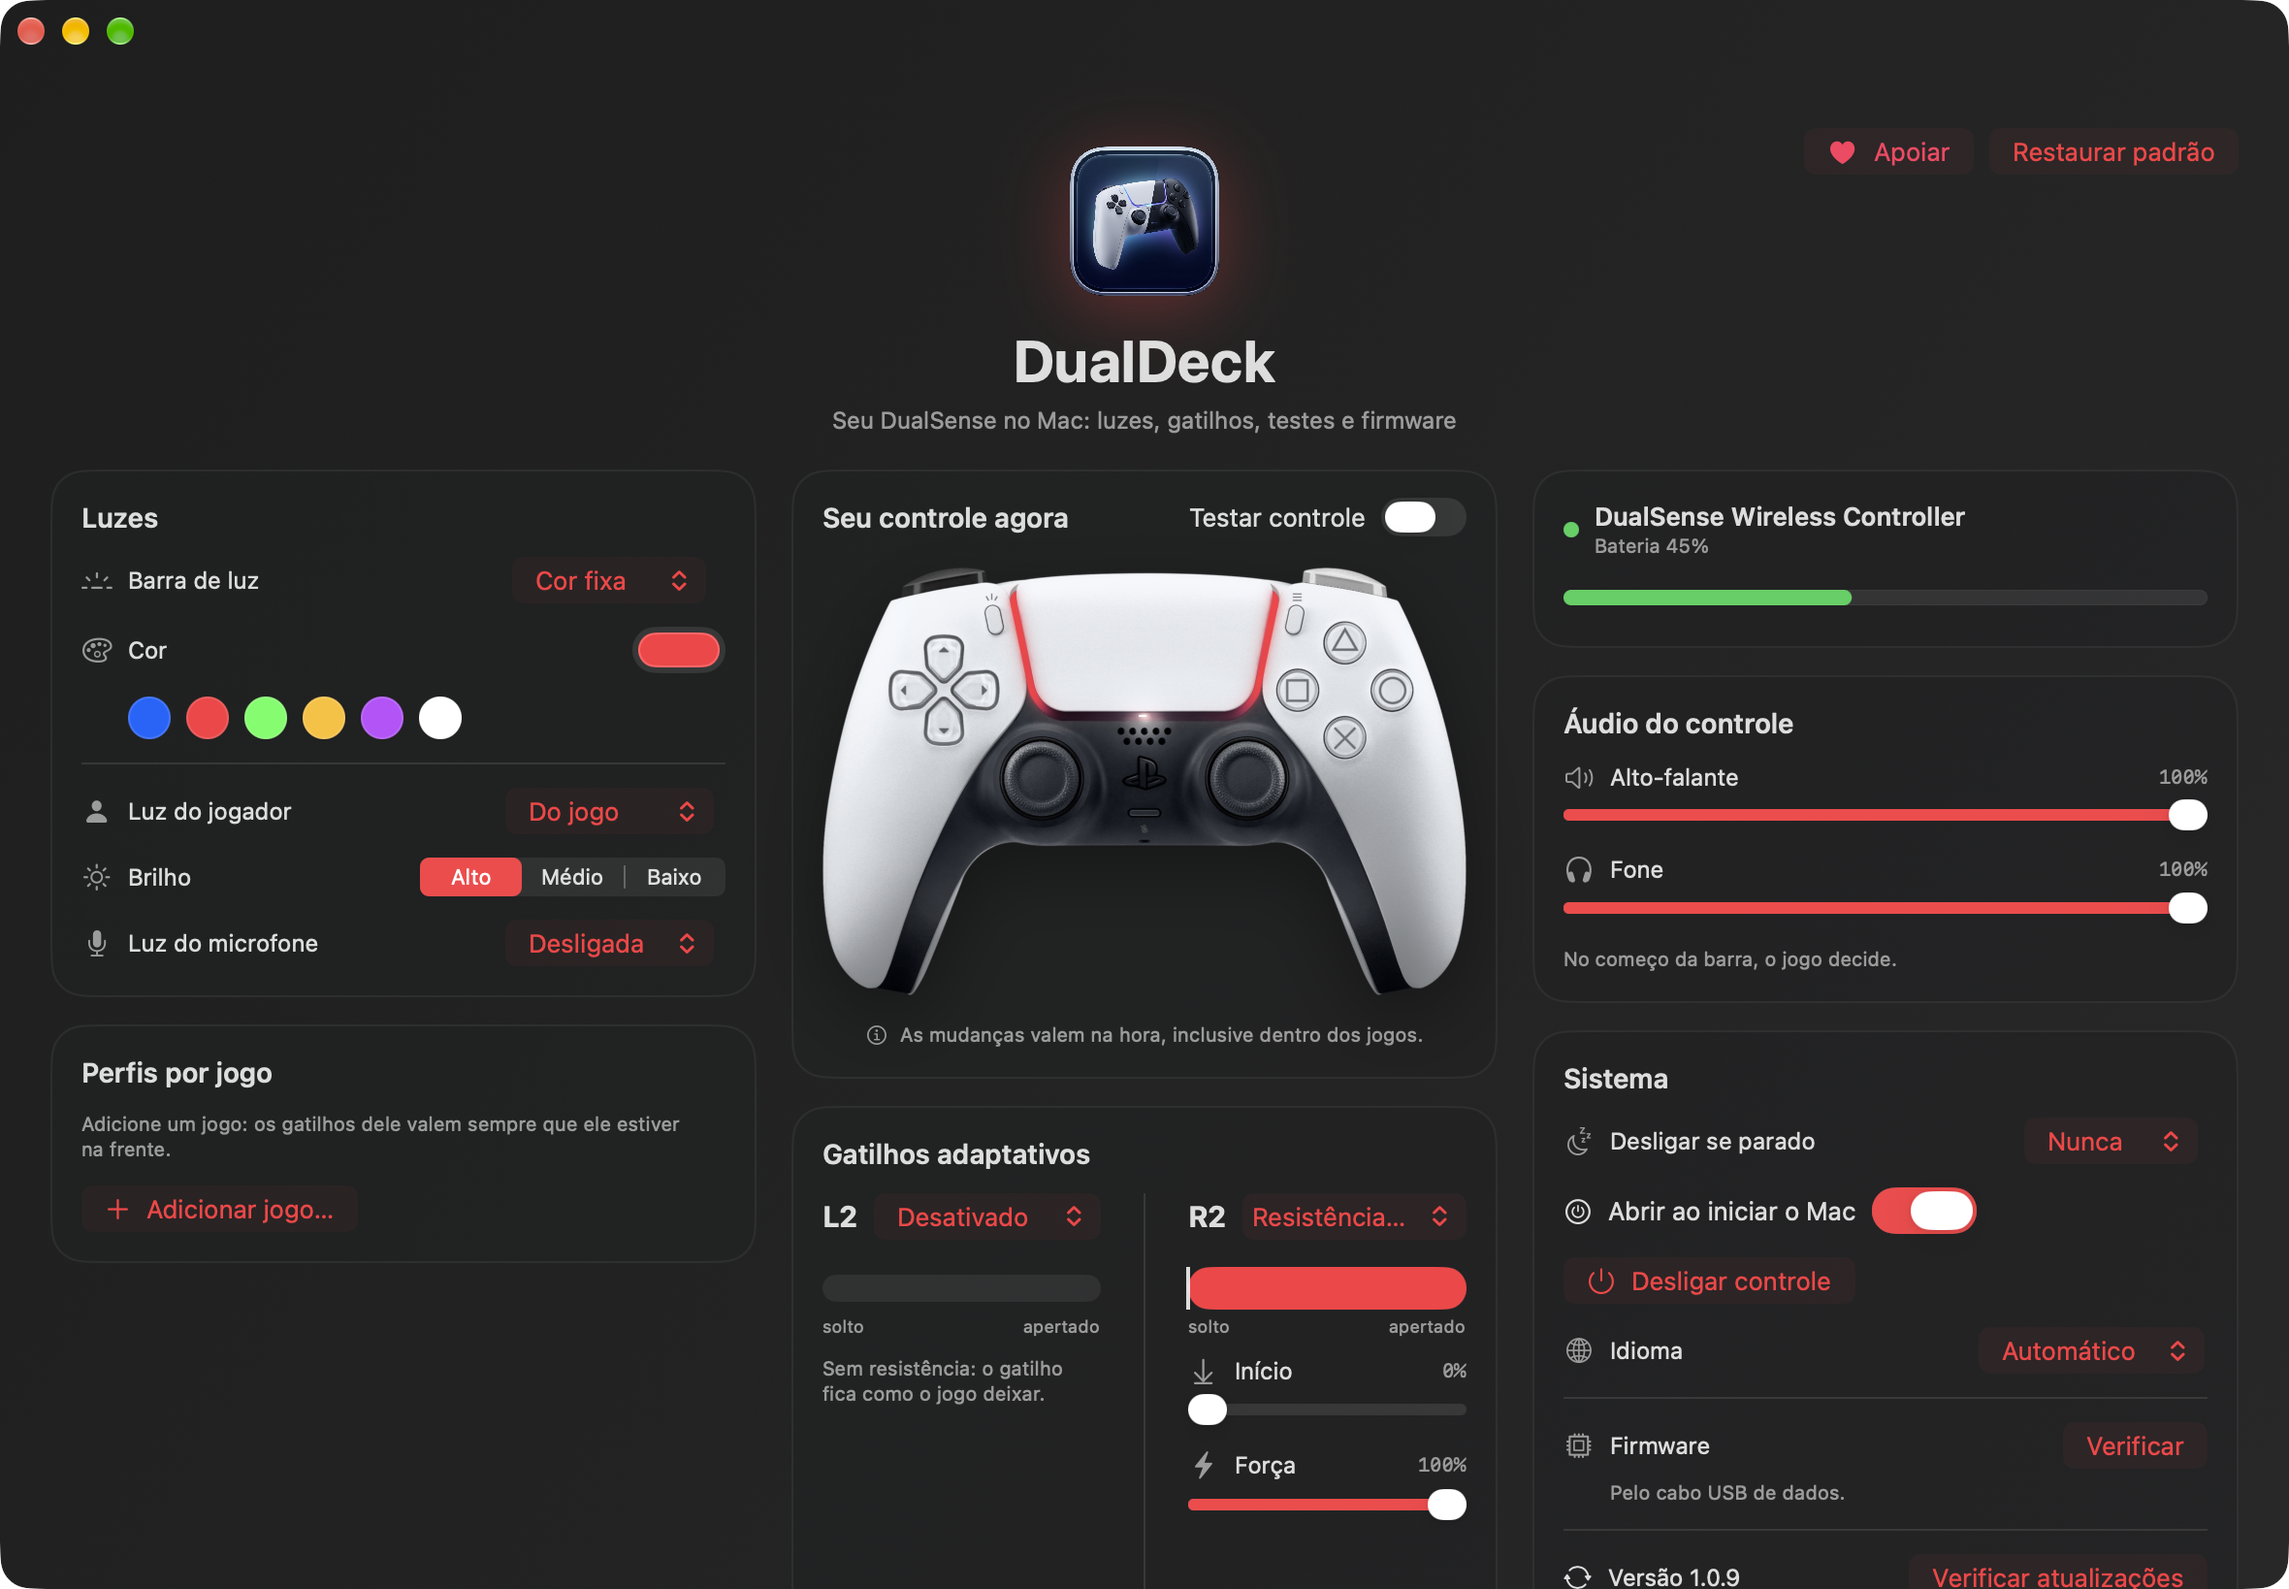
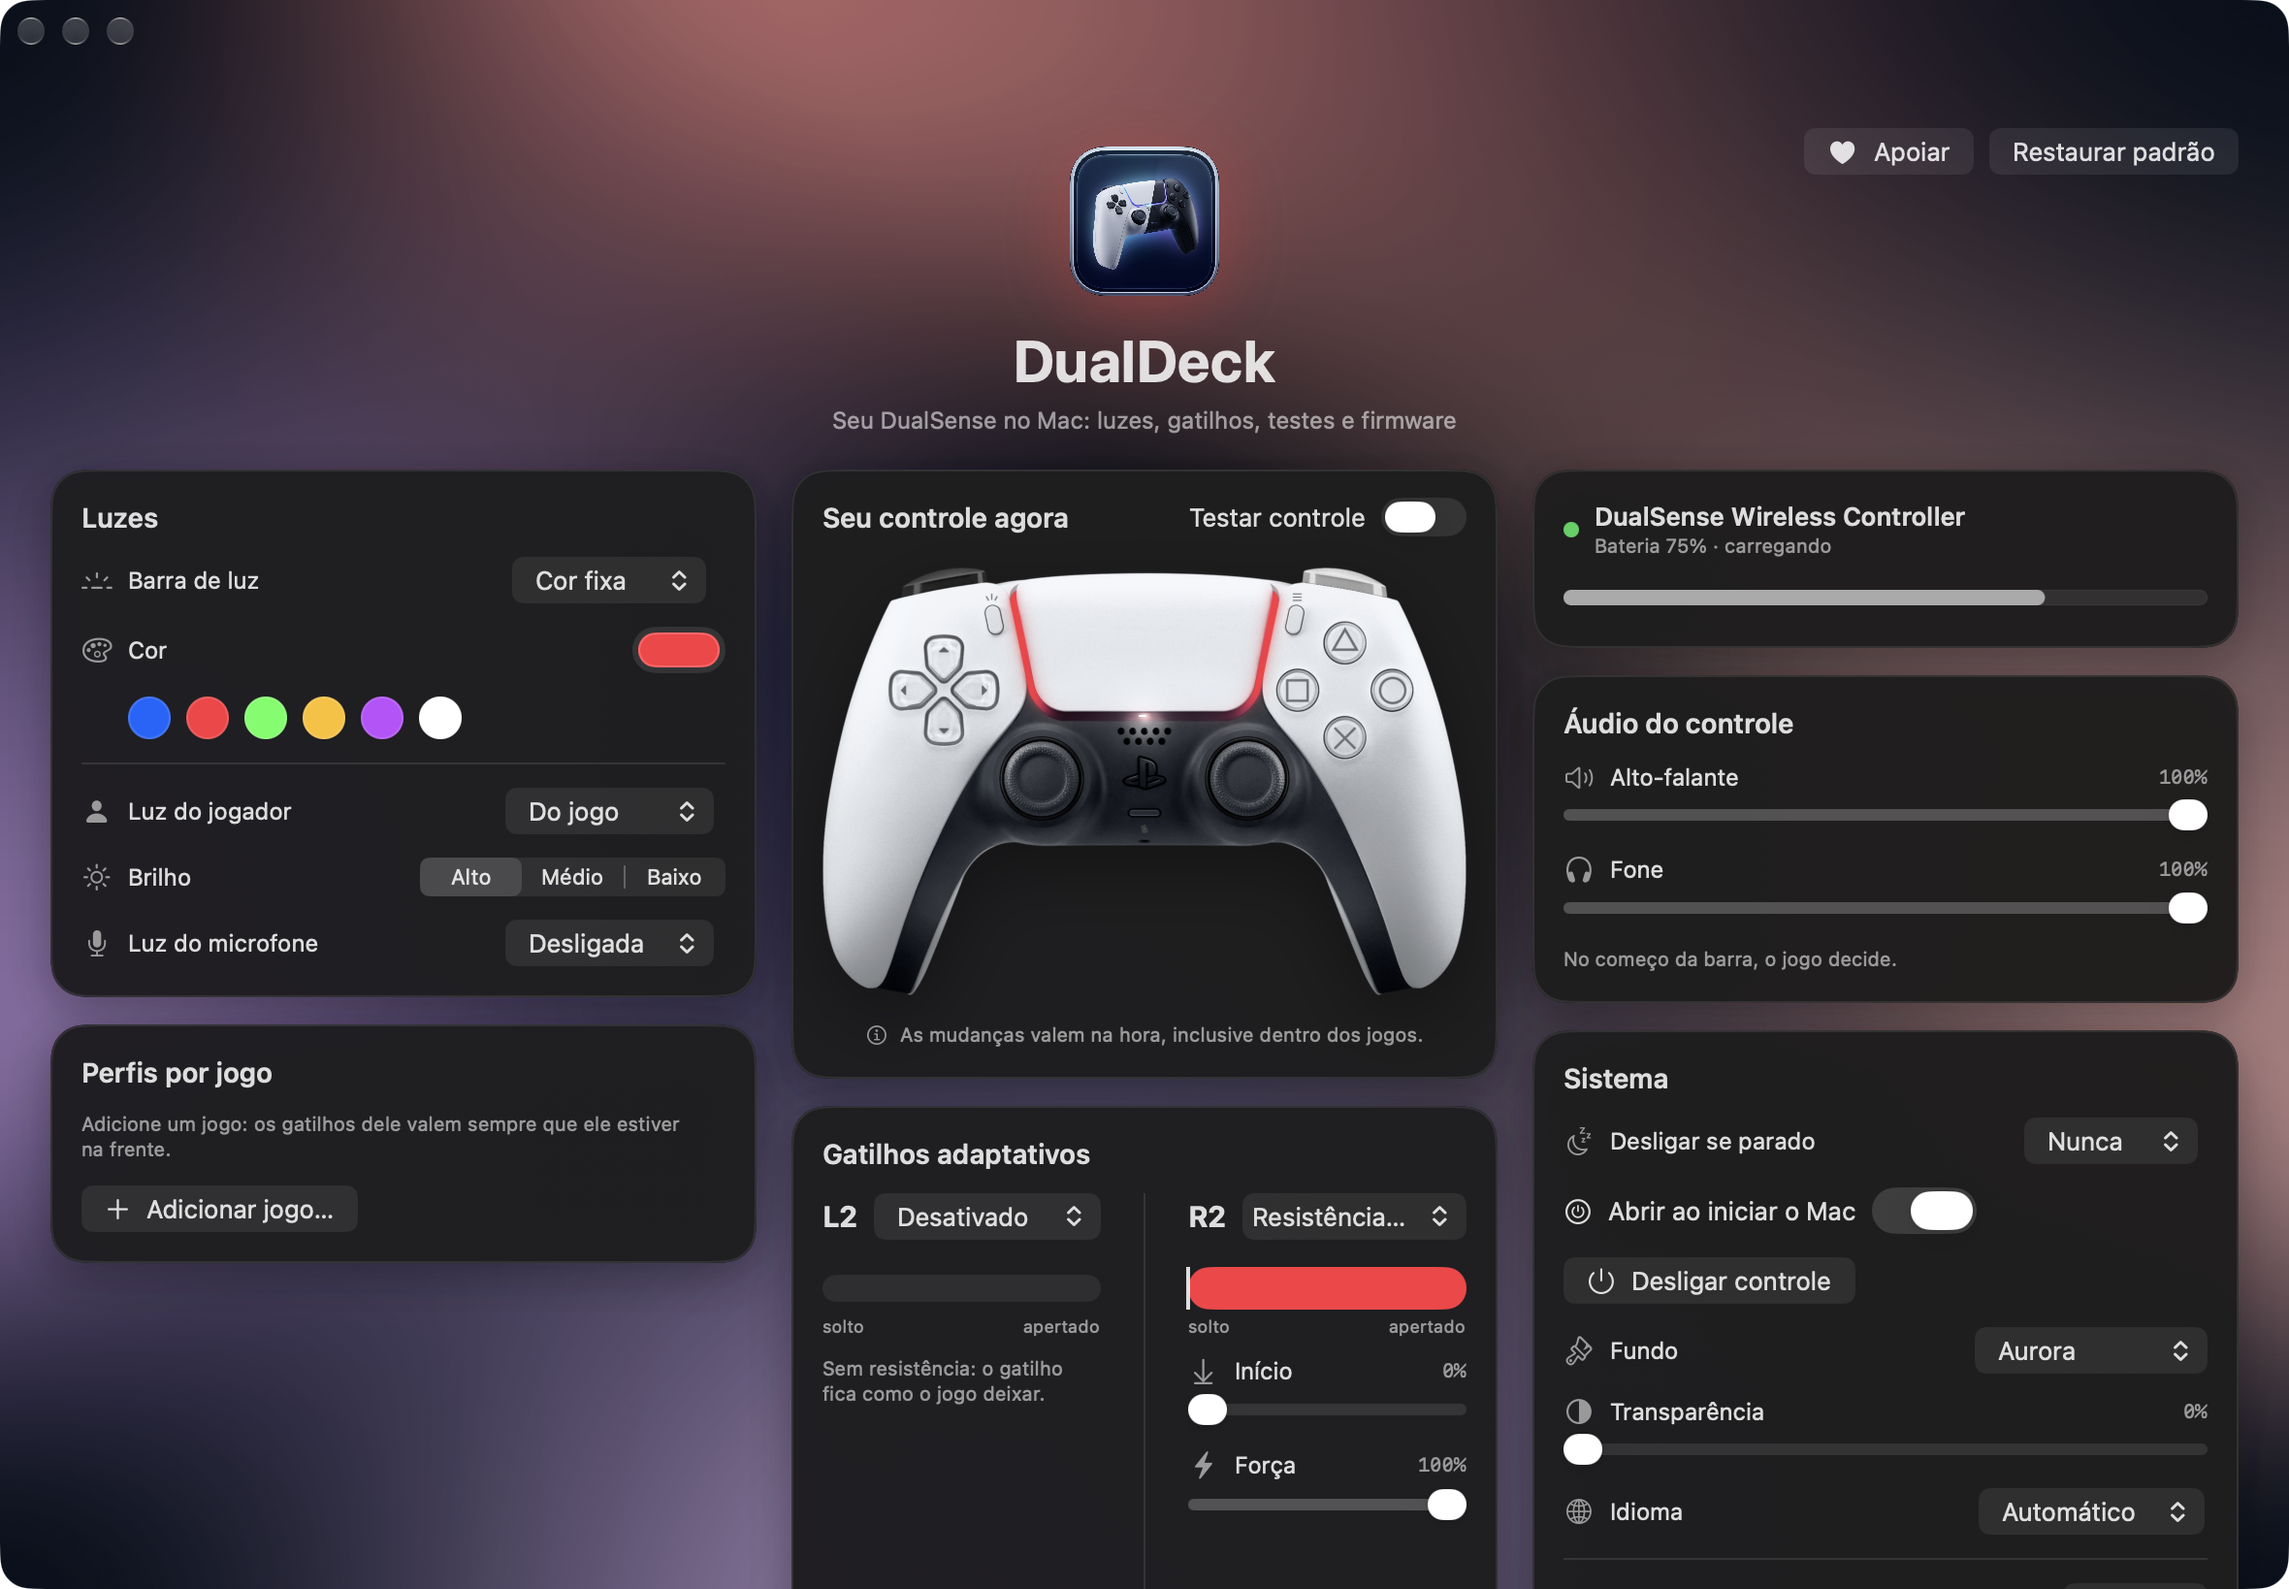
1.1.0: Aurora, Glow and Glass backgrounds following the light-bar colour; frosted cards; glass transparency

diff --git a/backdrop.swift b/backdrop.swift
@@ -1,0 +1,97 @@
+import SwiftUI
+import AppKit
+
+// Window backgrounds. All follow the chosen light-bar colour (`accent`).
+enum BackdropStyle: String, CaseIterable {
+    case aurora, glow, glass
+    static let key = "backdrop"
+    /// 0 = solid, 1 = fully see-through (cards, and the window in Glass)
+    static let transparencyKey = "glassTransparency"
+    var title: String {
+        switch self { case .aurora: return L("Aurora"); case .glow: return L("Brilho suave"); case .glass: return L("Vidro") }
+    }
+}
+
+private let navy = Color(red: 0.055, green: 0.094, blue: 0.165)     // DualDeck Deep Navy #0E182A
+private let violet = Color(red: 0.54, green: 0.17, blue: 0.89)      // DualDeck Violet Glow #8A2BE2
+
+struct AppBackdrop: View {
+    @AppStorage(BackdropStyle.transparencyKey) private var transparency = 0.5
+    let style: BackdropStyle
+    let accent: Color
+    var body: some View {
+        switch style {
+        case .aurora: Aurora(accent: accent)
+        case .glow: Glow(accent: accent)
+        case .glass:
+            VisualEffect()
+                .overlay(Color.black.opacity((1 - transparency) * 0.75))   // less transparency = darker, more solid
+                .overlay(accent.opacity(0.06))
+        }
+    }
+}
+
+/// Slowly drifting mesh gradient: navy, the accent and violet.
+private struct Aurora: View {
+    let accent: Color
+    var body: some View {
+        TimelineView(.animation(minimumInterval: 1 / 20)) { tl in
+            let t = tl.date.timeIntervalSinceReferenceDate / 9
+            let w = { (a: Double, b: Double) -> Float in Float(0.5 + 0.18 * sin(t * a + b)) }
+            MeshGradient(width: 3, height: 3, points: [
+                [0, 0], [w(0.9, 0), 0], [1, 0],
+                [0, w(0.7, 1)], [w(1.1, 2), w(0.8, 3)], [1, w(0.6, 4)],
+                [0, 1], [w(0.5, 5), 1], [1, 1],
+            ], colors: [
+                navy, accent.opacity(0.55), navy,
+                violet.opacity(0.45), navy, accent.opacity(0.35),
+                navy, violet.opacity(0.35), navy,
+            ])
+            .overlay(Color.black.opacity(0.35))
+        }
+    }
+}
+
+/// Dark backdrop, a glow of the accent from the top centre (behind the controller) and a faint grid.
+private struct Glow: View {
+    let accent: Color
+    var body: some View {
+        ZStack {
+            Color(red: 0.07, green: 0.07, blue: 0.09)
+            RadialGradient(colors: [accent.opacity(0.42), accent.opacity(0.08), .clear],
+                           center: UnitPoint(x: 0.5, y: 0.32), startRadius: 0, endRadius: 620)
+            Canvas { ctx, size in
+                var p = Path()
+                stride(from: 0, through: size.width, by: 36).forEach { x in p.move(to: CGPoint(x: x, y: 0)); p.addLine(to: CGPoint(x: x, y: size.height)) }
+                stride(from: 0, through: size.height, by: 36).forEach { y in p.move(to: CGPoint(x: 0, y: y)); p.addLine(to: CGPoint(x: size.width, y: y)) }
+                ctx.stroke(p, with: .color(.white.opacity(0.035)), lineWidth: 1)
+            }
+        }
+    }
+}
+
+/// The desktop behind the window, blurred.
+private struct VisualEffect: NSViewRepresentable {
+    func makeNSView(context: Context) -> NSVisualEffectView {
+        let v = NSVisualEffectView()
+        v.material = .underWindowBackground
+        v.blendingMode = .behindWindow
+        v.state = .active
+        return v
+    }
+    func updateNSView(_ v: NSVisualEffectView, context: Context) {}
+}
+
+/// Frosted card background used everywhere.
+struct CardBackground: View {
+    @AppStorage(BackdropStyle.transparencyKey) private var transparency = 0.5
+    var radius: CGFloat = 18
+    var body: some View {
+        RoundedRectangle(cornerRadius: radius, style: .continuous)
+            .fill(.ultraThinMaterial)
+            .overlay(RoundedRectangle(cornerRadius: radius, style: .continuous)
+                .fill(Color(white: 0.12).opacity((1 - transparency) * 0.9)))   // 0 = solid card, 1 = clear glass
+            .overlay(RoundedRectangle(cornerRadius: radius, style: .continuous).strokeBorder(.white.opacity(0.09)))
+            .shadow(color: .black.opacity(0.18), radius: 12, y: 6)
+    }
+}

diff --git a/settings.swift b/settings.swift
@@ -76,8 +76,7 @@ struct Card<Content: View>: View {
         }
         .padding(16)
         .frame(maxWidth: .infinity, alignment: .leading)
-        .background(RoundedRectangle(cornerRadius: 18, style: .continuous).fill(.background.opacity(0.55)))
-        .overlay(RoundedRectangle(cornerRadius: 18, style: .continuous).strokeBorder(.primary.opacity(0.07)))
+        .background(CardBackground())
     }
 }
 
@@ -297,8 +296,7 @@ struct StatusCard: View {
         }
         .padding(16)
         .frame(maxWidth: .infinity, alignment: .leading)
-        .background(RoundedRectangle(cornerRadius: 18, style: .continuous).fill(.background.opacity(0.55)))
-        .overlay(RoundedRectangle(cornerRadius: 18, style: .continuous).strokeBorder(.primary.opacity(0.07)))
+        .background(CardBackground())
     }
 }
 
@@ -348,6 +346,7 @@ struct FirmwareRow: View {
 
 struct SettingsView: View {
     @AppStorage(AppLanguage.key) private var language = AppLanguage.automatic.rawValue
+    @AppStorage(BackdropStyle.key) private var backdrop = BackdropStyle.aurora.rawValue
     @State private var testing = false
     private var accent: Color {
         switch m.s.lightEffect {
@@ -379,10 +378,8 @@ struct SettingsView: View {
             }
         }
         .frame(minWidth: 1100, idealWidth: 1180, maxWidth: .infinity, minHeight: 480, idealHeight: 940, maxHeight: .infinity)
-        .background(
-            LinearGradient(colors: [Color(nsColor: .windowBackgroundColor), Color(nsColor: .underPageBackgroundColor)],
-                           startPoint: .topLeading, endPoint: .bottomTrailing)
-        )
+        .background(AppBackdrop(style: BackdropStyle(rawValue: backdrop) ?? .aurora, accent: accent).ignoresSafeArea())
+        .environment(\.colorScheme, .dark)
     }
 
     private var content: some View {
@@ -449,8 +446,7 @@ struct SettingsView: View {
             }.font(.caption).foregroundStyle(.secondary).frame(maxWidth: .infinity)
         }
         .padding(16)
-        .background(RoundedRectangle(cornerRadius: 18, style: .continuous).fill(.background.opacity(0.55)))
-        .overlay(RoundedRectangle(cornerRadius: 18, style: .continuous).strokeBorder(.primary.opacity(0.07)))
+        .background(CardBackground())
     }
 
     private var lightsCard: some View {
@@ -547,6 +543,8 @@ struct SettingsView: View {
             let screen = (NSScreen.main ?? NSScreen.screens.first)?.visibleFrame ?? NSRect(x: 0, y: 0, width: 1440, height: 900)
             w.setContentSize(NSSize(width: min(1180, screen.width - 40), height: min(940, screen.height - 40)))
             w.titleVisibility = .hidden
+            w.isOpaque = false
+            w.backgroundColor = .clear
             w.titlebarAppearsTransparent = true
             w.isMovableByWindowBackground = true
             w.isReleasedWhenClosed = false
@@ -616,6 +614,8 @@ struct ProfilesCard: View {
 
 struct SystemCard: View {
     @AppStorage(AppLanguage.key) private var language = AppLanguage.automatic.rawValue
+    @AppStorage(BackdropStyle.key) private var backdrop = BackdropStyle.aurora.rawValue
+    @AppStorage(BackdropStyle.transparencyKey) private var transparency = 0.5
     @Environment(\.theme) private var accent
     @ObservedObject var power = PowerManager.shared
     let fw: FirmwareModel
@@ -639,6 +639,12 @@ struct SystemCard: View {
                 }
                 if let note { Text(note).font(.caption).foregroundStyle(.secondary) }
             }
+            Row(icon: "paintbrush", label: L("Fundo")) {
+                Picker("", selection: $backdrop) {
+                    ForEach(BackdropStyle.allCases, id: \.rawValue) { Text($0.title).tag($0.rawValue) }
+                }.labelsHidden().frame(width: 120).id(language)
+            }
+            ValueSlider(icon: "circle.lefthalf.filled", label: L("Transparência"), value: $transparency)
             Row(icon: "globe", label: L("Idioma")) {
                 Picker("", selection: $language) {
                     Text(L("Automático")).tag(AppLanguage.automatic.rawValue)

diff --git a/i18n.swift b/i18n.swift
@@ -155,6 +155,11 @@ private let english: [String: String] = [
     "Fone": "Headphones",
     "No começo da barra, o jogo decide.": "At the start of the bar, the game decides.",
     "Pelo cabo USB de dados.": "Over a USB data cable.",
+    "Fundo": "Background",
+    "Aurora": "Aurora",
+    "Brilho suave": "Glow",
+    "Transparência": "Transparency",
+    "Vidro": "Glass",
     // app menu
     "Ocultar DualDeck": "Hide DualDeck",
     "Sair do DualDeck": "Quit DualDeck",

diff --git a/README.md b/README.md
@@ -22,6 +22,7 @@ Your DualSense on the Mac: lights, adaptive triggers, tests and firmware, right 
 - **Power**: battery in the menu bar, low-battery alert, turn the controller off, and auto-off when idle.
 - **Several controllers**: each DualSense keeps its own settings.
 - **Updates**: the app checks for and installs new versions published in Releases.
+- **Looks**: Aurora, Glow or Glass background, following the light-bar colour, with adjustable glass transparency.
 
 ## Install
 
@@ -81,6 +82,7 @@ Seu DualSense no Mac: luzes, gatilhos adaptativos, testes e firmware, direto da 
 - **Energia**: bateria na barra de menus, aviso de bateria baixa, desligar o controle e desligamento automático quando parado.
 - **Vários controles**: cada DualSense com suas próprias configurações.
 - **Atualizações**: o app verifica e instala novas versões publicadas nas Releases.
+- **Visual**: fundo Aurora, Brilho suave ou Vidro, na cor da barra de luz, com transparência ajustável.
 
 ### Instalação
 
